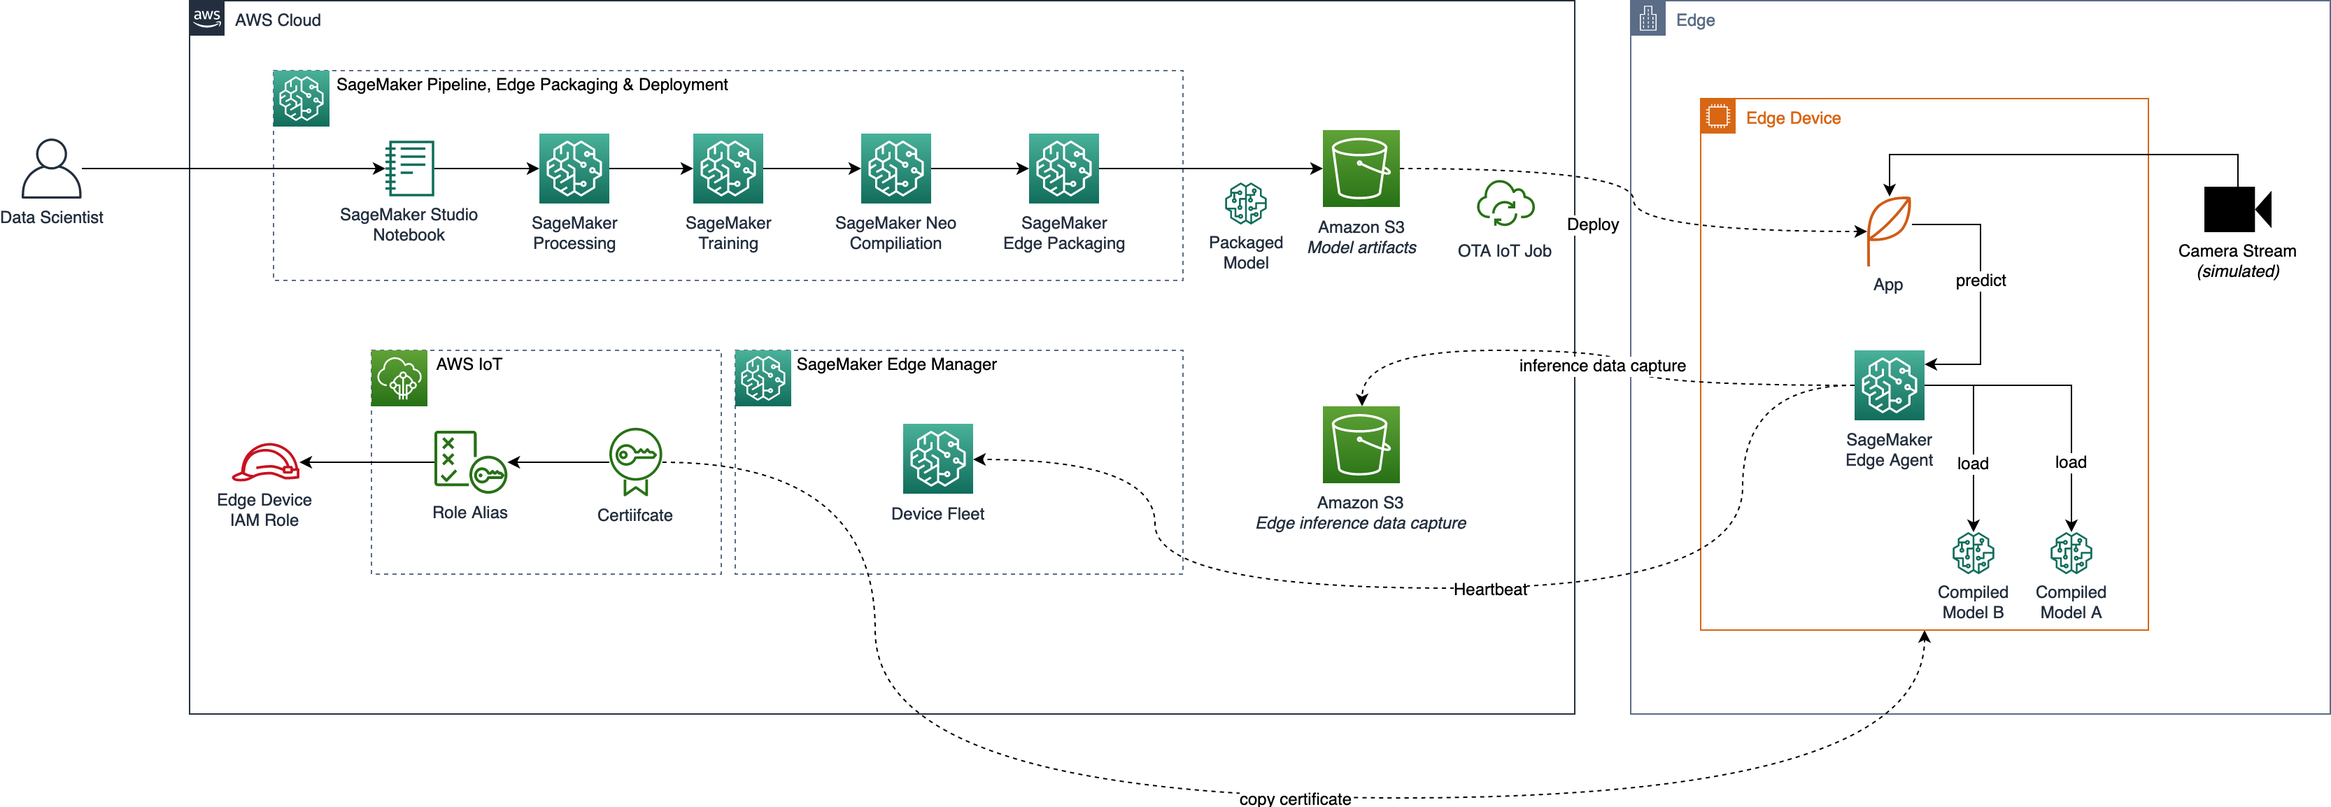
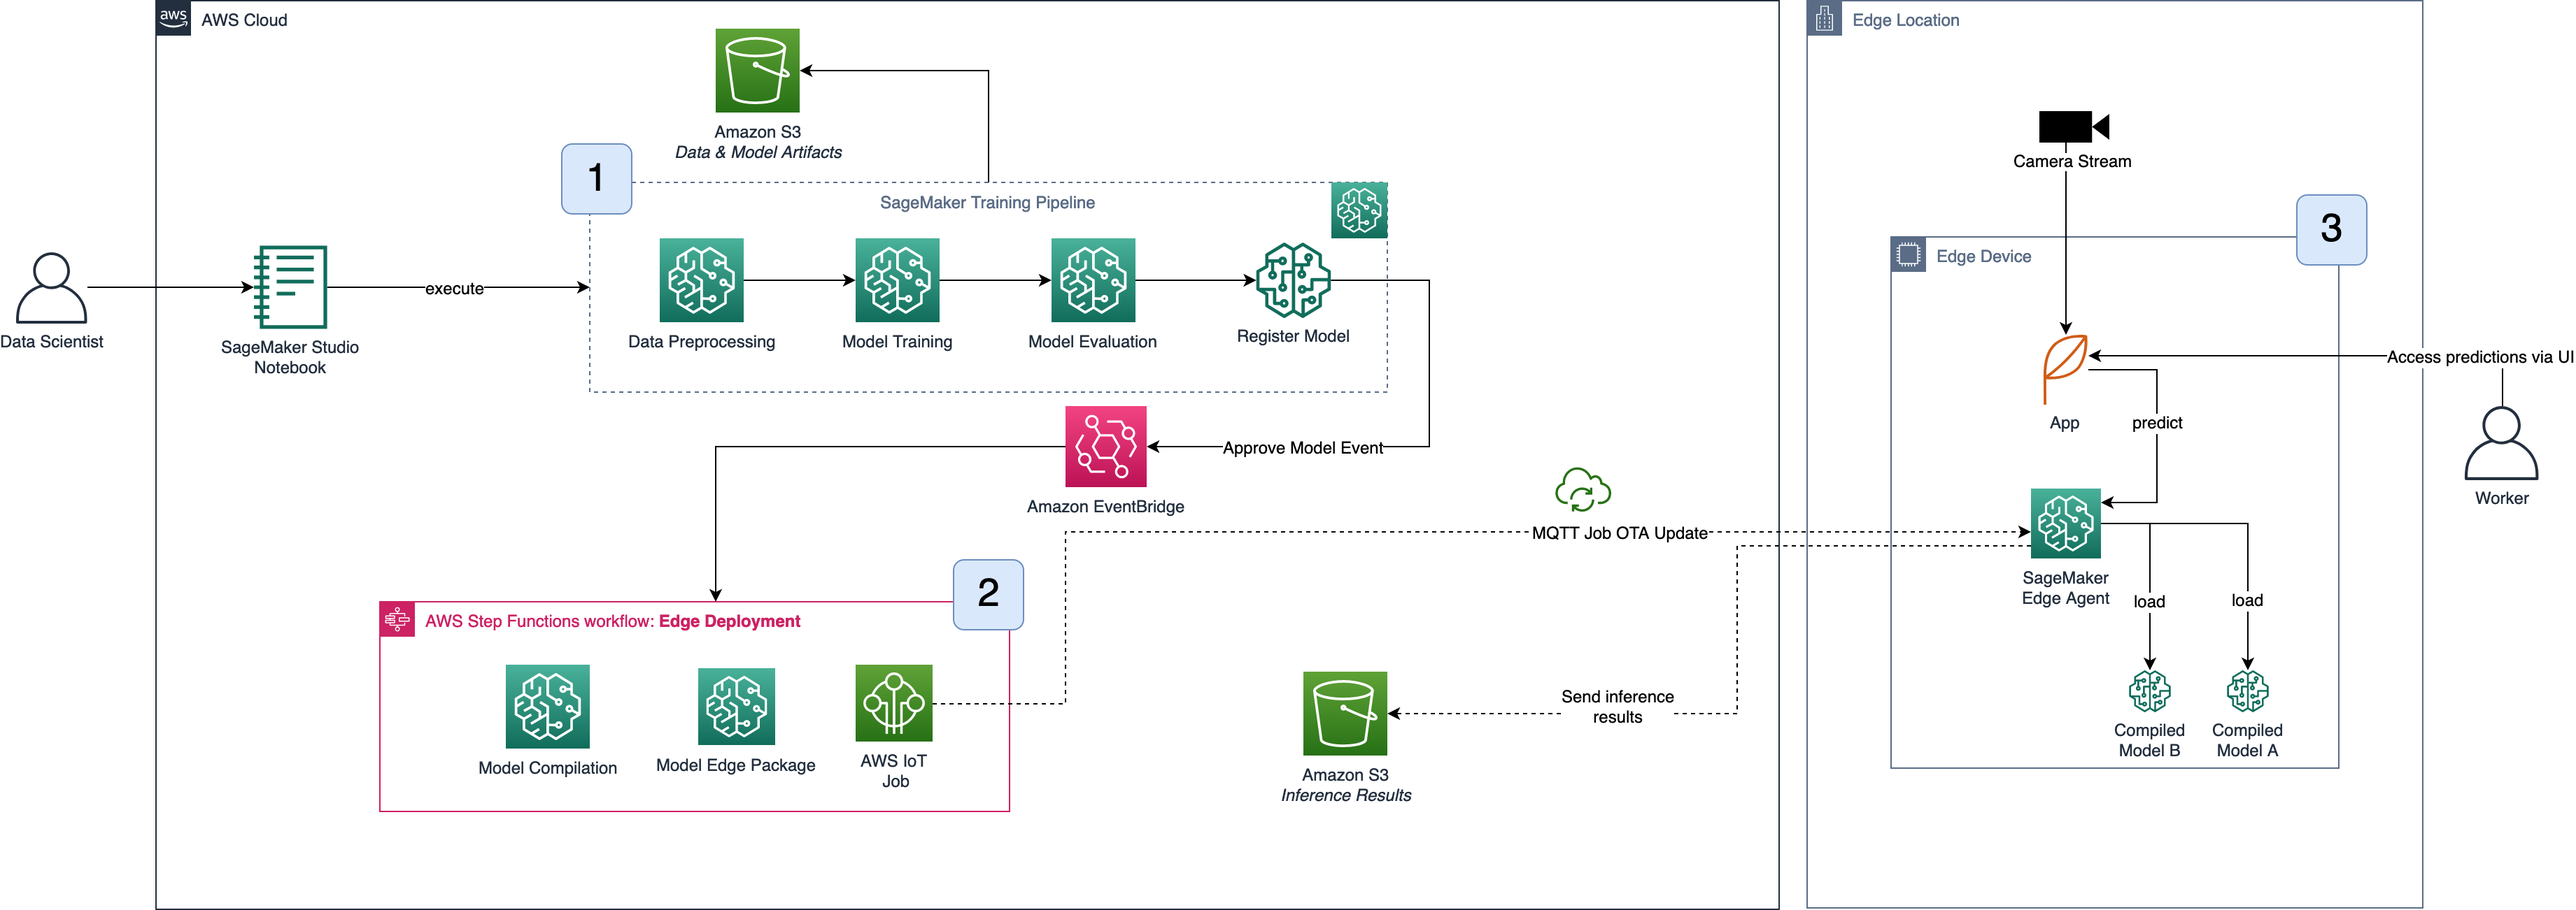
update readme, notebooks and architectures

diff --git a/README.md b/README.md
@@ -7,7 +7,7 @@ In this workshop, we will walk you through a step by step process to build and t
 The architecture we will build during this workshop is illustrated below. Several key components can be highlighted:
 
 1. **Model development and training on the cloud**: This repository contains code for two pipelines based on [SageMaker Pipelines](https://docs.aws.amazon.com/sagemaker/latest/dg/pipelines.html) for each of the two model types used (classification and segmentation). These pipelines will be built and executed in a SageMaker Studio notebook.
-2. **Model deployment to the edge**: Once a model building pipeline executed successfully, models will be compiled with [SageMaker Neo](https://aws.amazon.com/sagemaker/neo/) and packaged with a [SageMaker Edge packaging job](https://docs.aws.amazon.com/sagemaker/latest/dg/edge-packaging-job.html). As such, they can be deployed onto the edge device via IoT Jobs. On the edge device an application is running which will receive the model deployment job payload via MQTT and download the relevant model package.
+2. **Model deployment to the edge**: Once a model building pipeline executed successfully, models will be compiled with [SageMaker Neo](https://aws.amazon.com/sagemaker/neo/) and packaged with a [SageMaker Edge packaging job](https://docs.aws.amazon.com/sagemaker/latest/dg/edge-packaging-job.html). As such, they can be deployed onto the edge device via IoT Jobs. On the edge device an application is running which will receive the model deployment job payload via MQTT and download the relevant model package. The process of preparing the trained model for usage on the edge (i.e. compilation with Neo and packaging with Edge Manager) and deploying with AWS IoT is automated by using a step function workflow that is wired up to a approval event from SageMaker Model Registry.
 3. **Edge inference**: The edge device is running the actual application for defect detection. In this workshop, we will use an EC2 instance to simulate an edge device - but any hardware device (RaspberryPi, Nvidia Jetson) can be used as long as SageMaker Neo compilations are supported. During setup, a configuration package is being downloaded to edge device to configure SageMaker Edge Agent. The Edge Agent on the device can then load models deployed via OTA updates and make them available for prediction via a low-latency gRPC API (see [SageMaker Edge Manager documentation](https://docs.aws.amazon.com/sagemaker/latest/dg/edge.html)).
 
 ![architecture](img/architecture.png)
@@ -124,10 +124,11 @@ Please follow the steps below to start building your own edge ML project. Please
 
 ### Edge deployment and inference at edge
 
-1. Once the pipeline finished successfully, your model is almost ready for use on the edge device. Verify that the latest model version in the model registry is approved to make it available for edge deployment.
-2. Execute the following cells of the notebook to run model compilation with SageMaker Neo and then package the model for usage with SageMaker Edge Manager. 
-3. Finally, you can deploy the model package onto the edge by running the IoT Job as an Over-The-Air update. If your edge application is currently running, it should receive the OTA deployment job, download the model package and load it into the Edge Agent. 
-4. Verify that the deployment automation works by checking the log output on the edge device. You can also verify the successful deployment of a new model version by verifying the successful execution of the IoT job in the AWS IoT Core Console (under "Manage" --> "Jobs") as shown below.
+1. Once the pipeline finished successfully, your model is almost ready for use on the edge device. Please first verify that a new model version has been registered in the corresponding Model Package Group in the SageMaker Model Registry.
+2. If you choose to accept the model version, please update the status from "ManualApprovalPending" to "Approved".
+3. This action will emit an EventBridge event and automatically kick off the edge deployment workflow: this workflow starts the Neo Compilation job, the Edge Packaging job and finally creates an IoT job to notify the edge device of the new model update.
+4. Verify that the Step Function workflow executed successfully and also check the IoT job to verify that it was executed successfully on the edge device.
+5. You should now see your new model version in action on the edge application.
 
 ![pipeline](img/iot_job.png)
 
